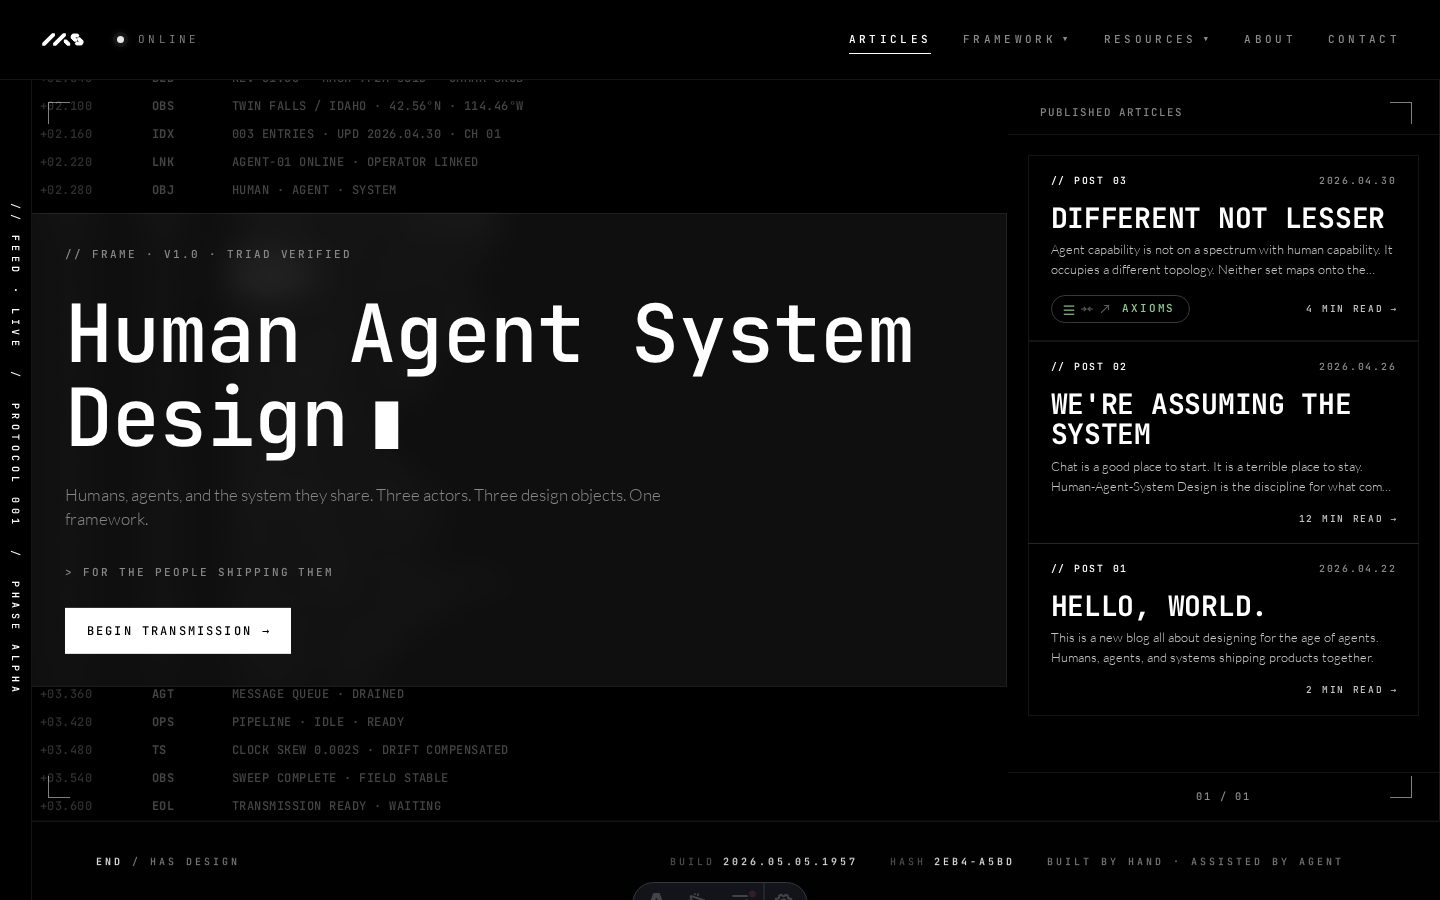
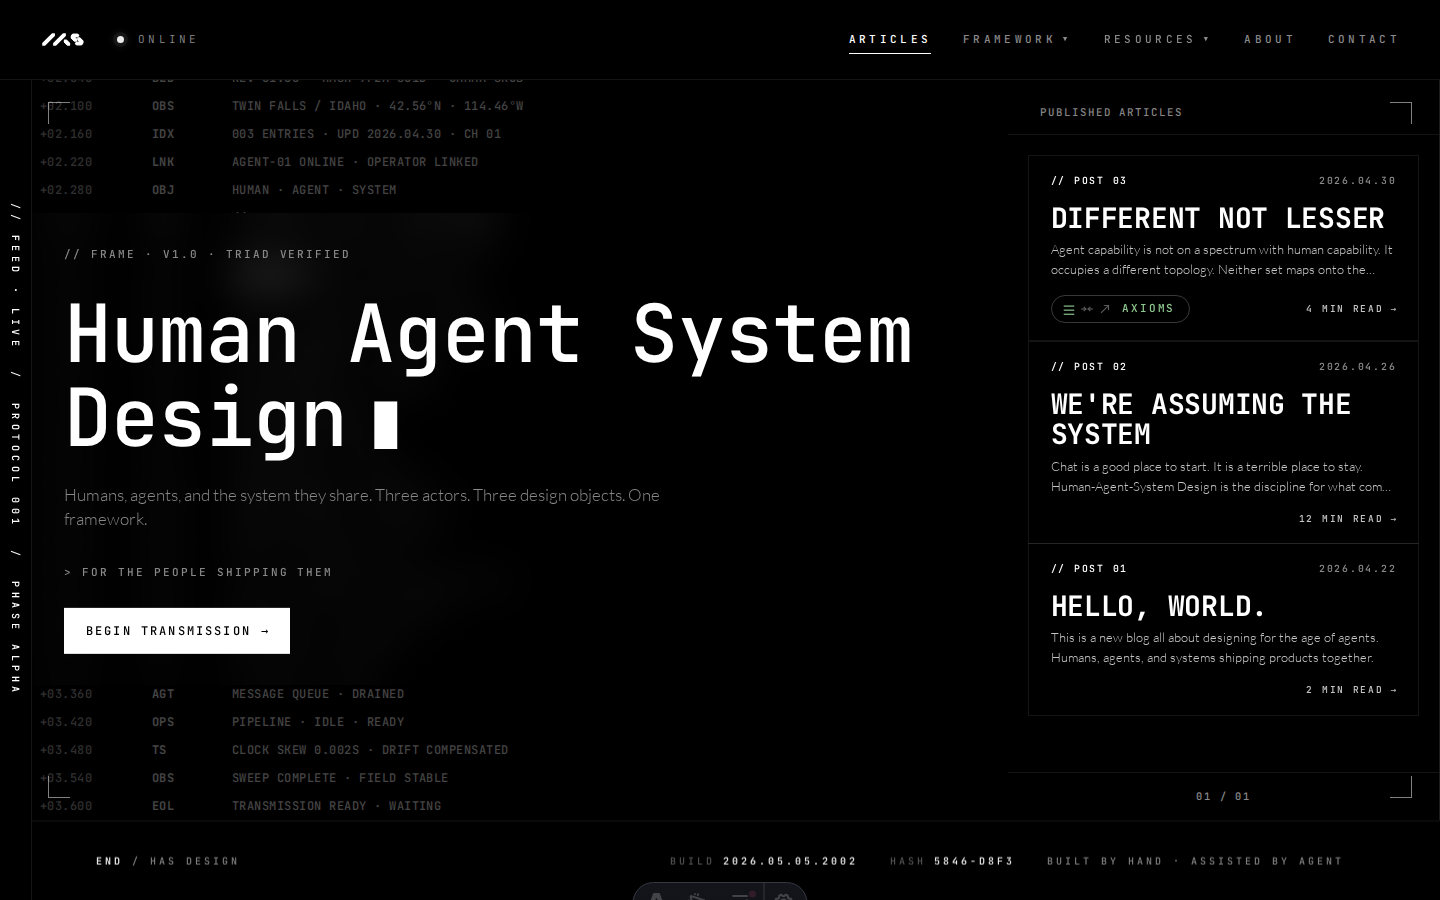
fix(hero): strip glass chrome — only blur, no tint, no border
The white tint and hairline border were chrome on the glass
element itself, visible even when there was nothing behind to
blur. User wants the glass to disappear over black areas and
only frost where there's actual content behind it.

- Removed background: rgba(255, 255, 255, 0.06).
- Removed border: 1px solid rgba(255, 255, 255, 0.08).
- Removed saturate(160%) from backdrop-filter.
- Kept only backdrop-filter: blur(20px).

Behavior:
- Over pure black (no scan-lines): blur of black is black —
  the lockup area is visually identical to the surrounding
  column.
- Over scan-lines: blur softens them into a frost — the lockup
  area shows as a frosted region.

The element has no visual presence of its own anymore; it only
manifests where the content behind gives it something to do.

diff --git a/src/styles/homepage.css b/src/styles/homepage.css
@@ -468,10 +468,11 @@ body.has-hero-frame-play .scan-line.is-visible {
 .scan-line .scan-d { color: #888888; }
 
 /* Lockup floats above the scan-stack, centered vertically.
-   White-tinted glassmorphism — subtle rgba(255,255,255,0.06)
-   over backdrop blur reads as a slightly LIGHTER frosted area
-   instead of a darker rectangle. Hairline white border for
-   definition without a hard edge. */
+   Pure backdrop-filter blur — no tint, no border, no chrome
+   on the glass element itself. Over a black background the
+   blur is invisible (blur of black = black); over scan-lines
+   the blur shows as a soft frost. Glass only appears where
+   there's content to blur. */
 .frame-block {
   position: absolute;
   top: 50%;
@@ -479,35 +480,24 @@ body.has-hero-frame-play .scan-line.is-visible {
   right: 0;
   transform: translateY(-50%);
   z-index: 2;
-  background: rgba(255, 255, 255, 0.06);
-  backdrop-filter: blur(20px) saturate(160%);
-  -webkit-backdrop-filter: blur(20px) saturate(160%);
-  border: 1px solid rgba(255, 255, 255, 0.08);
+  background: transparent;
+  backdrop-filter: blur(20px);
+  -webkit-backdrop-filter: blur(20px);
   padding: 32px 64px;
   display: flex;
   flex-direction: column;
   align-items: flex-start;
   transition:
-    background 400ms ease-out,
     backdrop-filter 400ms ease-out,
-    -webkit-backdrop-filter 400ms ease-out,
-    border-color 400ms ease-out;
+    -webkit-backdrop-filter 400ms ease-out;
 }
-/* During initial load — before the lockup is ready to write
-   in — every visual property of the glass is removed: no
-   tint, no blur, no border. The box has no visual presence
-   at all. .is-revealing flips the glass back on. */
 body.has-hero-frame-play .frame-block {
-  background: transparent;
   backdrop-filter: none;
   -webkit-backdrop-filter: none;
-  border-color: transparent;
 }
 body.has-hero-frame-play .frame-block.is-revealing {
-  background: rgba(255, 255, 255, 0.06);
-  backdrop-filter: blur(20px) saturate(160%);
-  -webkit-backdrop-filter: blur(20px) saturate(160%);
-  border-color: rgba(255, 255, 255, 0.08);
+  backdrop-filter: blur(20px);
+  -webkit-backdrop-filter: blur(20px);
 }
 
 /* Frame-line wrapper — same reveal as .scan-line, taller
